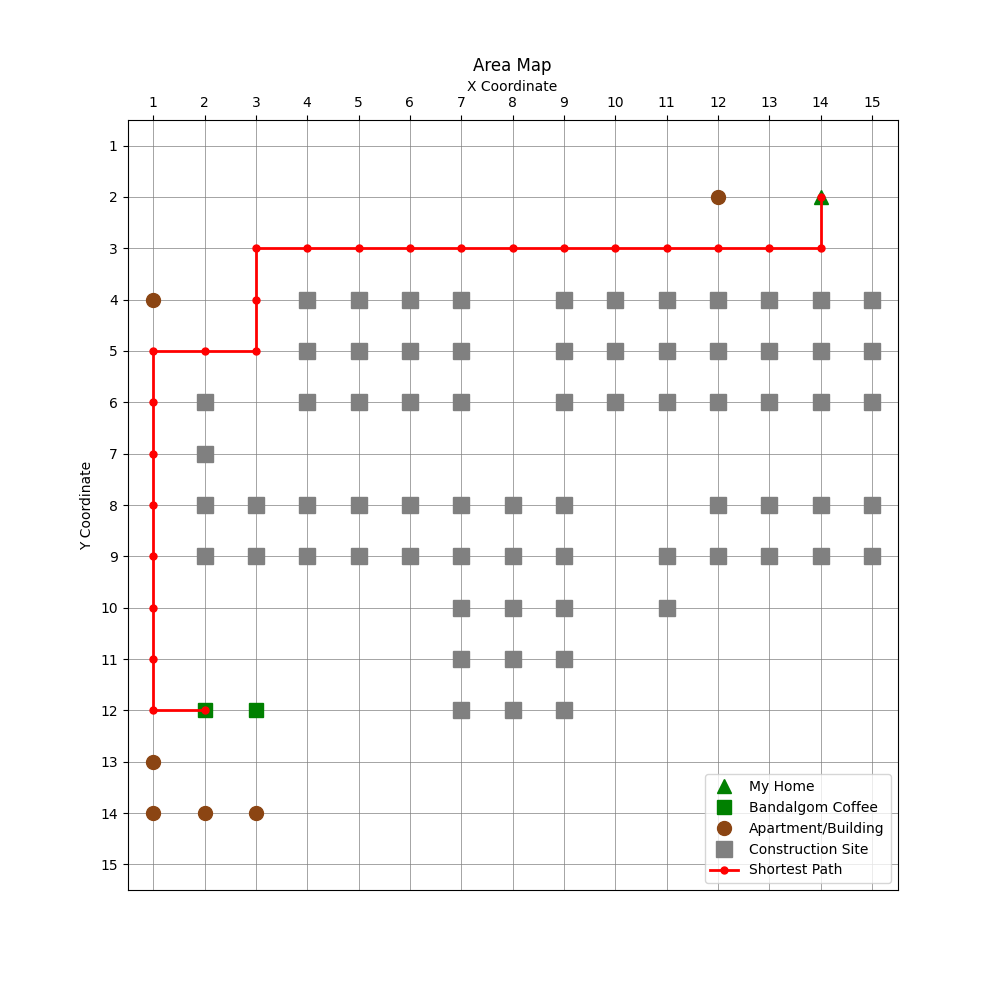
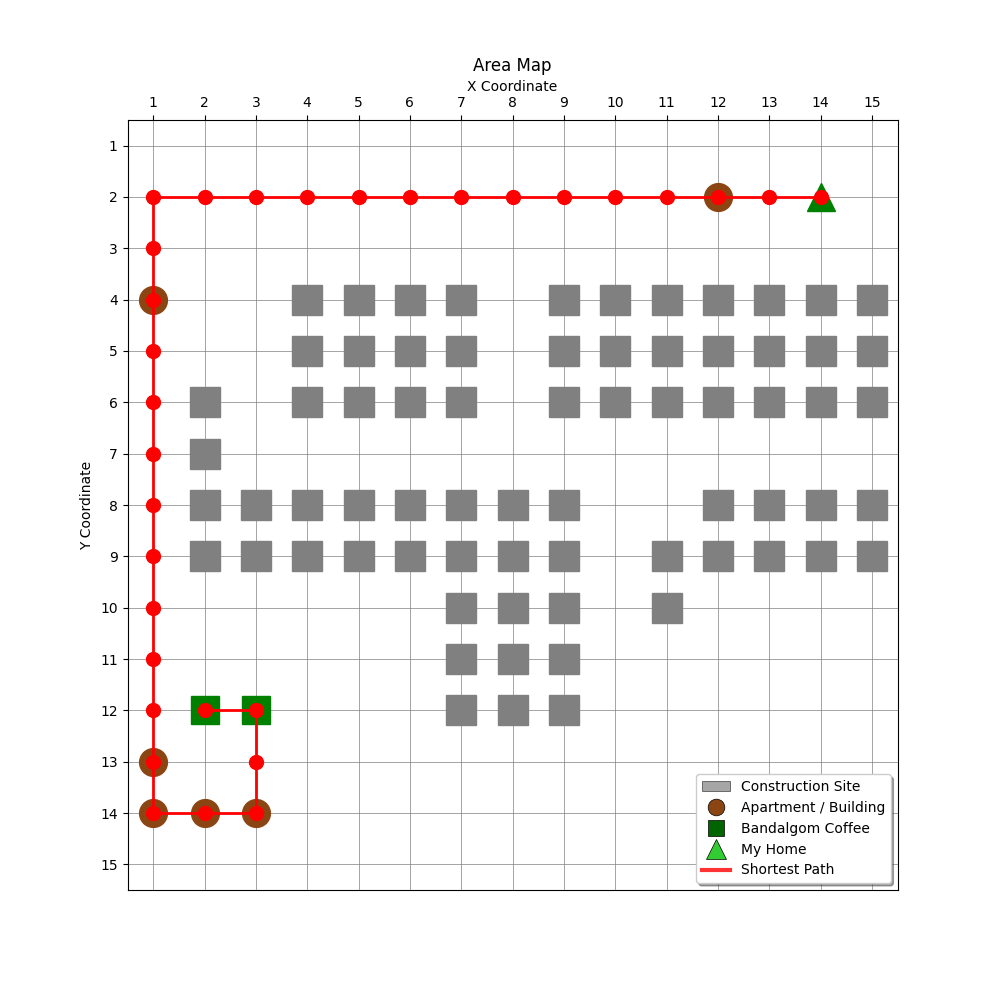
fix legend

diff --git a/dj/map_direct_save_bonus.py b/dj/map_direct_save_bonus.py
@@ -105,35 +105,36 @@ def draw_map(df, file_name, path = None, start_node = None, end_node = None, sho
         x, y = row['x'], row['y']
         cell_type = row['final_type']
 
+
         if cell_type == 'Apartment' or cell_type == 'Building':
             label = 'Apartment/Building'
             if label not in unique_labels:
-                plt.plot(x, y, 'o', color = 'saddlebrown', markersize = 10, label = label)
+                plt.plot(x, y, 'o', color = 'saddlebrown', markersize = 20, label = label)
                 unique_labels[label] = True
             else:
-                plt.plot(x, y, 'o', color = 'saddlebrown', markersize = 10)
+                plt.plot(x, y, 'o', color = 'saddlebrown', markersize = 20)
         elif cell_type == 'BandalgomCoffee':
             label = 'Bandalgom Coffee'
             if label not in unique_labels:
-                plt.plot(x, y, 's', color = 'green', markersize = 10, label = label)
+                plt.plot(x, y, 's', color = 'green', markersize = 20, label = label)
                 unique_labels[label] = True
             else:
-                plt.plot(x, y, 's', color = 'green', markersize = 10)
+                plt.plot(x, y, 's', color = 'green', markersize = 20)
         elif cell_type == 'MyHome':
             label = 'My Home'
             if label not in unique_labels:
-                plt.plot(x, y, '^', color = 'green', markersize = 10, label = label)
+                plt.plot(x, y, '^', color = 'green', markersize = 20, label = label)
                 unique_labels[label] = True
             else:
-                plt.plot(x, y, '^', color = 'green', markersize = 10)
+                plt.plot(x, y, '^', color = 'green', markersize = 20)
         elif cell_type == 'ConstructionSite':
             label = 'Construction Site'
             # 건설 현장은 바로 옆 좌표와 살짝 겹쳐도 되므로, 마커 크기를 약간 크게 설정
             if label not in unique_labels:
-                plt.plot(x, y, 's', color = 'gray', markersize = 12, label = label)
+                plt.plot(x, y, 's', color = 'gray', markersize = 22, label = label)
                 unique_labels[label] = True
             else:
-                plt.plot(x, y, 's', color = 'gray', markersize = 12)
+                plt.plot(x, y, 's', color = 'gray', markersize = 22)
 
     # 경로 플로팅
     if path:
@@ -141,16 +142,16 @@ def draw_map(df, file_name, path = None, start_node = None, end_node = None, sho
         path_y = [p[1] for p in path]
         label = 'Shortest Path'
         if label not in unique_labels:
-            plt.plot(path_x, path_y, color = 'red', linewidth = 2, marker = 'o', markersize = 5, label = label)
+            plt.plot(path_x, path_y, color = 'red', linewidth = 2, marker = 'o', markersize = 10, label = label)
             unique_labels[label] = True
         else:
-            plt.plot(path_x, path_y, color = 'red', linewidth = 2, marker = 'o', markersize = 5)
+            plt.plot(path_x, path_y, color = 'red', linewidth = 2, marker = 'o', markersize = 10)
 
         # 시작점과 끝점 마커는 지도에서 제거
         # if start_node:
-        #     plt.plot(start_node[0], start_node[1], 'o', color = 'cyan', markersize = 10)
+        #     plt.plot(start_node[0], start_node[1], 'o', color = 'cyan', markersize = 20)
         # if end_node:
-        #     plt.plot(end_node[0], end_node[1], 'o', color = 'magenta', markersize = 10)
+        #     plt.plot(end_node[0], end_node[1], 'o', color = 'magenta', markersize = 20)
 
 
     plt.title('Area Map')
@@ -161,31 +162,30 @@ def draw_map(df, file_name, path = None, start_node = None, end_node = None, sho
     plt.xlim(0.5, max_x + 0.5)
     plt.ylim(max_y + 0.5, 0.5)
 
-    # 범례 표시 (지도 오른쪽 아래)
-    if show_legend:
-        handles, labels = ax.get_legend_handles_labels()
-        # 특정 순서로 범례를 정렬 (Start와 End는 제외)
-        ordered_labels = ['My Home', 'Bandalgom Coffee', 'Apartment/Building', 'Construction Site', 'Shortest Path']
-        
-        # unique_handles_map을 사용하여 중복 제거된 핸들/레이블을 만듦
-        unique_handles_map = {}
-        for handle, label in zip(handles, labels):
-            # 'Start'와 'End' 레이블은 범례에서 제외
-            if label not in ['Start', 'End']:
-                unique_handles_map[label] = handle
+    # # 범례 표시 (지도 오른쪽 아래)
 
-        # 원하는 순서로 범례를 다시 구성하기 위해 빈 리스트 초기화
-        final_ordered_handles = []
-        final_ordered_labels = []
-
-        for target_label in ordered_labels:
-            if target_label in unique_handles_map:
-                final_ordered_handles.append(unique_handles_map[target_label])
-                final_ordered_labels.append(target_label)
-
-        if final_ordered_handles: # 범례 항목이 있을 경우에만 범례 표시
-            plt.legend(final_ordered_handles, final_ordered_labels, loc = 'lower right')
-
+    legend_items = [
+        plt.Rectangle((0, 0), 1, 1, facecolor='gray', alpha=0.7, 
+                     edgecolor='black', linewidth=0.5, label='Construction Site'),
+        plt.Line2D([0], [0], marker='o', color='w', markerfacecolor='saddlebrown', 
+                  markersize=12, markeredgecolor='black', markeredgewidth=0.5, 
+                  label='Apartment / Building'),
+        plt.Line2D([0], [0], marker='s', color='w', markerfacecolor='darkgreen', 
+                  markersize=12, markeredgecolor='black', markeredgewidth=0.5,
+                  label='Bandalgom Coffee'),
+        plt.Line2D([0], [0], marker='^', color='w', markerfacecolor='limegreen', 
+                  markersize=14, markeredgecolor='black', markeredgewidth=0.5,
+                  label='My Home'),
+    ]
+    
+    if path:
+        legend_items.append(
+            plt.Line2D([0], [0], color='red', linewidth=3, alpha=0.8, label='Shortest Path')
+        )
+    
+    ax.legend(handles=legend_items, loc='lower right', frameon=True, 
+             fancybox=True, shadow=True, fontsize=10)
+    
     plt.xticks(list(range(1, max_x + 1)))
     plt.yticks(list(range(1, max_y + 1)))
     plt.gca().set_aspect('equal', adjustable = 'box')

diff --git a/dj/map_direct_save_bfs.py b/dj/map_direct_save_bfs.py
@@ -108,32 +108,32 @@ def draw_map(df, file_name, path = None, start_node = None, end_node = None, sho
         if cell_type == 'Apartment' or cell_type == 'Building':
             label = 'Apartment/Building'
             if label not in unique_labels:
-                plt.plot(x, y, 'o', color = 'saddlebrown', markersize = 10, label = label)
+                plt.plot(x, y, 'o', color = 'saddlebrown', markersize = 20, label = label)
                 unique_labels[label] = True
             else:
-                plt.plot(x, y, 'o', color = 'saddlebrown', markersize = 10)
+                plt.plot(x, y, 'o', color = 'saddlebrown', markersize = 20)
         elif cell_type == 'BandalgomCoffee':
             label = 'Bandalgom Coffee'
             if label not in unique_labels:
-                plt.plot(x, y, 's', color = 'green', markersize = 10, label = label)
+                plt.plot(x, y, 's', color = 'green', markersize = 20, label = label)
                 unique_labels[label] = True
             else:
-                plt.plot(x, y, 's', color = 'green', markersize = 10)
+                plt.plot(x, y, 's', color = 'green', markersize = 20)
         elif cell_type == 'MyHome':
             label = 'My Home'
             if label not in unique_labels:
-                plt.plot(x, y, '^', color = 'green', markersize = 10, label = label)
+                plt.plot(x, y, '^', color = 'green', markersize = 20, label = label)
                 unique_labels[label] = True
             else:
-                plt.plot(x, y, '^', color = 'green', markersize = 10)
+                plt.plot(x, y, '^', color = 'green', markersize = 20)
         elif cell_type == 'ConstructionSite':
             label = 'Construction Site'
             # 건설 현장은 바로 옆 좌표와 살짝 겹쳐도 되므로, 마커 크기를 약간 크게 설정
             if label not in unique_labels:
-                plt.plot(x, y, 's', color = 'gray', markersize = 12, label = label)
+                plt.plot(x, y, 's', color = 'gray', markersize = 22, label = label)
                 unique_labels[label] = True
             else:
-                plt.plot(x, y, 's', color = 'gray', markersize = 12)
+                plt.plot(x, y, 's', color = 'gray', markersize = 22)
 
     # 경로 플로팅
     if path:
@@ -158,29 +158,29 @@ def draw_map(df, file_name, path = None, start_node = None, end_node = None, sho
     plt.ylim(max_y + 0.5, 0.5)
 
     # 범례 표시 (지도 오른쪽 아래)
-    if show_legend:
-        handles, labels = ax.get_legend_handles_labels()
-        # 특정 순서로 범례를 정렬 (Start와 End는 제외)
-        ordered_labels = ['My Home', 'Bandalgom Coffee', 'Apartment/Building', 'Construction Site', 'Shortest Path']
-        
-        # unique_handles_map을 사용하여 중복 제거된 핸들/레이블을 만듦
-        unique_handles_map = {}
-        for handle, label in zip(handles, labels):
-            # 'Start'와 'End' 레이블은 범례에서 제외
-            if label not in ['Start', 'End']:
-                unique_handles_map[label] = handle
+    # # 범례 표시 (지도 오른쪽 아래)
 
-        # 원하는 순서로 범례를 다시 구성하기 위해 빈 리스트 초기화
-        final_ordered_handles = []
-        final_ordered_labels = []
-
-        for target_label in ordered_labels:
-            if target_label in unique_handles_map:
-                final_ordered_handles.append(unique_handles_map[target_label])
-                final_ordered_labels.append(target_label)
-
-        if final_ordered_handles: # 범례 항목이 있을 경우에만 범례 표시
-            plt.legend(final_ordered_handles, final_ordered_labels, loc = 'lower right')
+    legend_items = [
+        plt.Rectangle((0, 0), 1, 1, facecolor='gray', alpha=0.7, 
+                     edgecolor='black', linewidth=0.5, label='Construction Site'),
+        plt.Line2D([0], [0], marker='o', color='w', markerfacecolor='saddlebrown', 
+                  markersize=12, markeredgecolor='black', markeredgewidth=0.5, 
+                  label='Apartment / Building'),
+        plt.Line2D([0], [0], marker='s', color='w', markerfacecolor='darkgreen', 
+                  markersize=12, markeredgecolor='black', markeredgewidth=0.5,
+                  label='Bandalgom Coffee'),
+        plt.Line2D([0], [0], marker='^', color='w', markerfacecolor='limegreen', 
+                  markersize=14, markeredgecolor='black', markeredgewidth=0.5,
+                  label='My Home'),
+    ]
+    
+    if path:
+        legend_items.append(
+            plt.Line2D([0], [0], color='red', linewidth=3, alpha=0.8, label='Shortest Path')
+        )
+    
+    ax.legend(handles=legend_items, loc='lower right', frameon=True, 
+             fancybox=True, shadow=True, fontsize=10)
 
     plt.xticks(list(range(1, max_x + 1)))
     plt.yticks(list(range(1, max_y + 1)))

diff --git a/dj/map_direct_save._astart.py b/dj/map_direct_save._astart.py
@@ -108,21 +108,21 @@ def draw_map(df, file_name, path = None, start_node = None, end_node = None, sho
         if cell_type == 'Apartment' or cell_type == 'Building':
             label = 'Apartment/Building'
             if label not in unique_labels:
-                plt.plot(x, y, 'o', color = 'saddlebrown', markersize = 10, label = label)
+                plt.plot(x, y, 'o', color = 'saddlebrown', markersize = 20, label = label)
                 unique_labels[label] = True
             else:
-                plt.plot(x, y, 'o', color = 'saddlebrown', markersize = 10)
+                plt.plot(x, y, 'o', color = 'saddlebrown', markersize = 20)
         elif cell_type == 'BandalgomCoffee':
             label = 'Bandalgom Coffee'
             if label not in unique_labels:
-                plt.plot(x, y, 's', color = 'green', markersize = 10, label = label)
+                plt.plot(x, y, 's', color = 'green', markersize = 20, label = label)
                 unique_labels[label] = True
             else:
-                plt.plot(x, y, 's', color = 'green', markersize = 10)
+                plt.plot(x, y, 's', color = 'green', markersize = 20)
         elif cell_type == 'MyHome':
             label = 'My Home'
             if label not in unique_labels:
-                plt.plot(x, y, '^', color = 'green', markersize = 10, label = label)
+                plt.plot(x, y, '^', color = 'green', markersize = 20, label = label)
                 unique_labels[label] = True
             else:
                 plt.plot(x, y, '^', color = 'green', markersize = 10)
@@ -130,10 +130,10 @@ def draw_map(df, file_name, path = None, start_node = None, end_node = None, sho
             label = 'Construction Site'
             # 건설 현장은 바로 옆 좌표와 살짝 겹쳐도 되므로, 마커 크기를 약간 크게 설정
             if label not in unique_labels:
-                plt.plot(x, y, 's', color = 'gray', markersize = 12, label = label)
+                plt.plot(x, y, 's', color = 'gray', markersize = 22, label = label)
                 unique_labels[label] = True
             else:
-                plt.plot(x, y, 's', color = 'gray', markersize = 12)
+                plt.plot(x, y, 's', color = 'gray', markersize = 22)
 
     # 경로 플로팅
     if path:
@@ -162,29 +162,29 @@ def draw_map(df, file_name, path = None, start_node = None, end_node = None, sho
     plt.ylim(max_y + 0.5, 0.5)
 
     # 범례 표시 (지도 오른쪽 아래)
-    if show_legend:
-        handles, labels = ax.get_legend_handles_labels()
-        # 특정 순서로 범례를 정렬 (Start와 End는 제외)
-        ordered_labels = ['My Home', 'Bandalgom Coffee', 'Apartment/Building', 'Construction Site', 'Shortest Path']
-        
-        # unique_handles_map을 사용하여 중복 제거된 핸들/레이블을 만듦
-        unique_handles_map = {}
-        for handle, label in zip(handles, labels):
-            # 'Start'와 'End' 레이블은 범례에서 제외
-            if label not in ['Start', 'End']:
-                unique_handles_map[label] = handle
+    # # 범례 표시 (지도 오른쪽 아래)
 
-        # 원하는 순서로 범례를 다시 구성하기 위해 빈 리스트 초기화
-        final_ordered_handles = []
-        final_ordered_labels = []
-
-        for target_label in ordered_labels:
-            if target_label in unique_handles_map:
-                final_ordered_handles.append(unique_handles_map[target_label])
-                final_ordered_labels.append(target_label)
-
-        if final_ordered_handles: # 범례 항목이 있을 경우에만 범례 표시
-            plt.legend(final_ordered_handles, final_ordered_labels, loc = 'lower right')
+    legend_items = [
+        plt.Rectangle((0, 0), 1, 1, facecolor='gray', alpha=0.7, 
+                     edgecolor='black', linewidth=0.5, label='Construction Site'),
+        plt.Line2D([0], [0], marker='o', color='w', markerfacecolor='saddlebrown', 
+                  markersize=12, markeredgecolor='black', markeredgewidth=0.5, 
+                  label='Apartment / Building'),
+        plt.Line2D([0], [0], marker='s', color='w', markerfacecolor='darkgreen', 
+                  markersize=12, markeredgecolor='black', markeredgewidth=0.5,
+                  label='Bandalgom Coffee'),
+        plt.Line2D([0], [0], marker='^', color='w', markerfacecolor='limegreen', 
+                  markersize=14, markeredgecolor='black', markeredgewidth=0.5,
+                  label='My Home'),
+    ]
+    
+    if path:
+        legend_items.append(
+            plt.Line2D([0], [0], color='red', linewidth=3, alpha=0.8, label='Shortest Path')
+        )
+    
+    ax.legend(handles=legend_items, loc='lower right', frameon=True, 
+             fancybox=True, shadow=True, fontsize=10)
 
     plt.xticks(list(range(1, max_x + 1)))
     plt.yticks(list(range(1, max_y + 1)))
